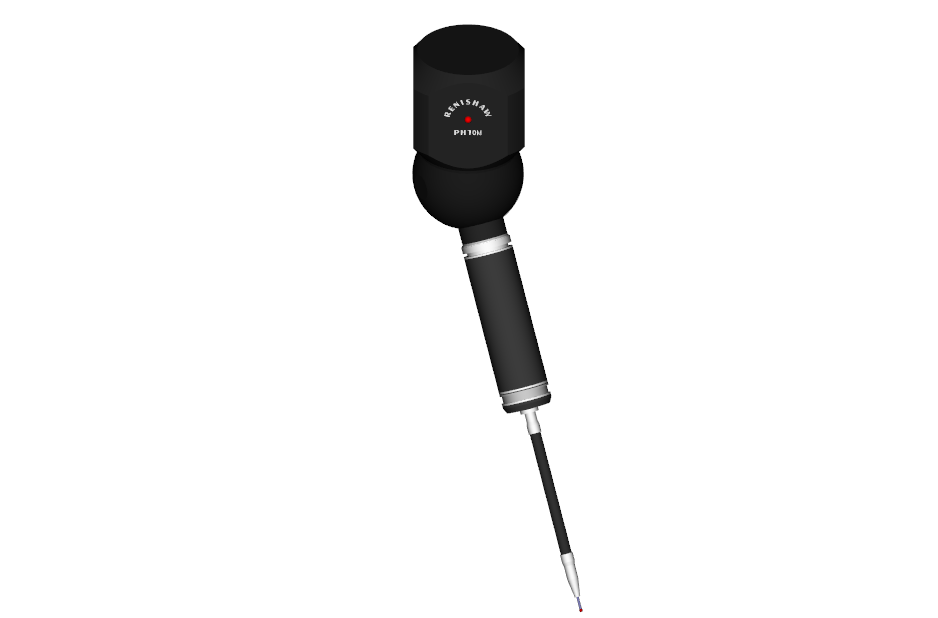
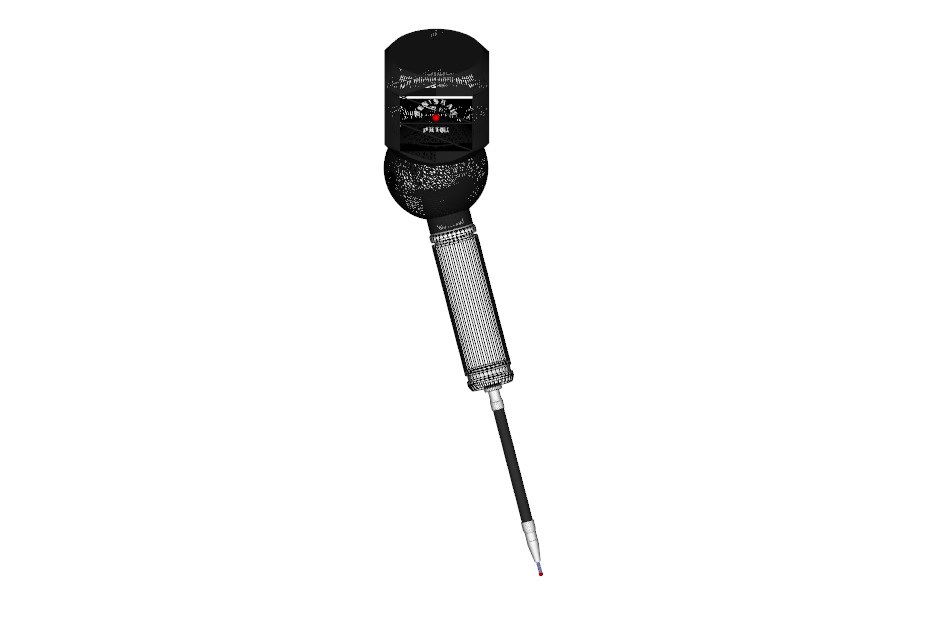
Rotation for screenshots

Changed region(s): [[0.4019, 0.0307, 0.6183, 0.9838]]

diff --git a/ViewCapture.cpp b/ViewCapture.cpp
@@ -8,13 +8,13 @@ ViewCapture::ViewCapture(const vtkSmartPointer<vtkRenderer>& target)
     _target = target;
 }
 
-std::string ViewCapture::TakeScreenshot(const vtkActorCollection* sceneObjects, const Size& size, const std::string& outputPath) const
+std::string ViewCapture::TakeScreenshot(const vtkActorCollection* sceneObjects, const Size& size, const std::string& outputPath, bool drawFrame) const
 {
     const vtkNew<vtkRenderer> renderer {};
     const vtkNew<vtkRenderWindow> renderWindow {};
 
     AddActorsToRenderer(renderer, const_cast<vtkActorCollection*>(sceneObjects));
-
+    SetActorsToWireframeDisplay(renderer);
     renderer->SetBackground(1, 1, 1);
 
     renderWindow->AddRenderer(renderer);
@@ -31,7 +31,10 @@ std::string ViewCapture::TakeScreenshot(const vtkActorCollection* sceneObjects, 
     if (_rawSettings)
         _rawSettings->ApplyToCamera(camera);
 
-    renderer->ResetCameraClippingRange();
+    /*camera->Azimuth(180);
+    camera->Elevation(30);*/
+
+    renderer->ResetCamera();
 
     renderWindow->Render();
 
@@ -46,15 +49,17 @@ std::string ViewCapture::TakeScreenshot(const vtkActorCollection* sceneObjects, 
     writer->SetInputConnection(wnd2Img->GetOutputPort());
     writer->Write();
 
+    SetActorsToSurfaceDisplay(renderer);
+
     return std::filesystem::absolute(std::filesystem::path(outputPath)).string();
 }
 
-std::string ViewCapture::TakeScreenshot(const Size& size, const std::string& path, PreShotAction prepareAction) const
+std::string ViewCapture::TakeScreenshot(const Size& size, const std::string& path, PreShotAction prepareAction, bool drawFrame) const
 {
     if (prepareAction)
         prepareAction(_target);
 
-    return TakeScreenshot(const_cast<vtkRenderer*>(_target)->GetActors(), size, path);
+    return TakeScreenshot(const_cast<vtkRenderer*>(_target)->GetActors(), size, path, drawFrame);
 }
 
 

diff --git a/vtkUtils.hpp b/vtkUtils.hpp
@@ -10,6 +10,9 @@ using vtkActorPointer = vtkSmartPointer<vtkActor>;
 using vtkTexturePointer = vtkSmartPointer<vtkTexture>;
 using vtkPolyDataMapperPointer = vtkSmartPointer<vtkPolyDataMapper>;
 
+using vtkActorTransformAction = std::function<vtkActor* (vtkActor*)>;
+using vtkActorTransformActionVoid = std::function<void(vtkActor*)>;
+
 template<typename ...Props>
 using is_vtk_prop_ptr = std::conjunction<std::is_convertible<Props, vtkProp*>...>;
 
@@ -27,7 +30,6 @@ inline void AddActorsToRenderer(const vtkRendererPointer& renderer, vtkActorColl
     actors->InitTraversal();
 
     auto actor = actors->GetNextActor();
-
     while(actor)
     {
         renderer->AddActor(actor);
@@ -53,6 +55,33 @@ Status AddActorsToRenderer(const vtkRendererPointer& renderer, const X<ActorPtr>
     }
 
     return Status::Success;
+}
+
+inline void TransformRendererActors(const vtkRendererPointer& renderer, const vtkActorTransformActionVoid& transform)
+{
+    auto actors = renderer->GetActors();
+
+    actors->InitTraversal();
+
+    auto actor = actors->GetNextActor();
+
+    while (actor)
+    {
+        transform(actor);
+        actor = actors->GetNextActor();
+    }
+}
+
+inline void SetActorsToWireframeDisplay(const vtkRendererPointer& renderer) {
+    TransformRendererActors(renderer, [](vtkActor* actor) {
+        actor->GetProperty()->SetRepresentationToWireframe();
+    });
+}
+
+inline void SetActorsToSurfaceDisplay(const vtkRendererPointer& renderer) {
+    TransformRendererActors(renderer, [](vtkActor* actor) {
+        actor->GetProperty()->SetRepresentationToSurface();
+    });
 }
 
 inline Result<vtkTexturePointer> LoadVtkTexture(const std::string& path) {

diff --git a/ParallelCameraSettings.cpp b/ParallelCameraSettings.cpp
@@ -116,13 +116,6 @@ ParallelCameraSettings& ParallelCameraSettings::operator=(ParallelCameraSettings
 
 void ParallelCameraSettings::ApplyToCamera(const vtkSmartPointer<vtkCamera>& camera) const noexcept
 {
-    camera->SetPosition(_position);
-    camera->SetFocalPoint(_focalPoint);
-    camera->SetViewUp(_viewUp);
-    camera->SetParallelProjection(1);
-    camera->SetParallelScale(_parallelScale);
-    camera->SetClippingRange(_clippingRange);
-
     camera->Azimuth(_azimuth);
     camera->Elevation(_elevation);
     camera->Roll(_roll);
@@ -149,19 +142,25 @@ ParallelCameraSettings& ParallelCameraSettings::Rotate(double yaw, double pitch,
     return *this;
 }
 
+// Copies Focal Points, ViewUp vector, parallel scale and clippingRange from given camera. Other parameters sets to 0
 ParallelCameraSettings ParallelCameraSettings::FromCamera(const vtkSmartPointer<vtkCamera>& camera)
 {
-    double position[3];
+    double position[3]{};
     double focalPoint[3];
     double viewUp[3];
     double clippingRange[2];
     const double parallelScale = camera->GetParallelScale();
 
-    camera->GetPosition(position);
+
     camera->GetFocalPoint(focalPoint);
     camera->GetViewUp(viewUp);
     camera->GetClippingRange(clippingRange);
 
-    return { position, focalPoint, viewUp, parallelScale, clippingRange, 0, 0, camera->GetRoll(), 0, 0};
+    return { position, focalPoint, viewUp, parallelScale, clippingRange, 0, 0, 0, 0, 0};
+}
+
+ParallelCameraSettings ParallelCameraSettings::Default()
+{
+    return ParallelCameraSettings::FromCamera(vtkSmartPointer<vtkCamera>::New());
 }
 

diff --git a/MachineHead.hpp b/MachineHead.hpp
@@ -84,17 +84,28 @@ public:
         return _rotations.at(address);
     }
 
+    std::unordered_map<RotAddress, double> Rotations()
+    {
+        return _rotations;
+    }
+
     void SetZero() noexcept 
     {
         RotatePart(RotAddress::A, 0);
         RotatePart(RotAddress::B, 0);
     }
 
+    void RotationsFromMap(std::unordered_map<RotAddress, double> angles)
+    {
+        RotatePart(RotAddress::A, angles[RotAddress::A]);
+        RotatePart(RotAddress::B, angles[RotAddress::B]);
+    }
+
 private:
     MachinePartCollection _parts;
     std::vector<MachineHeadAssembly> _topLevelParts;
 
-    std::map<RotAddress, double> _rotations = 
+    std::unordered_map<RotAddress, double> _rotations = 
     {
         {RotAddress::A, 0},
         {RotAddress::B, 0}

diff --git a/scenewidget.cpp b/scenewidget.cpp
@@ -82,15 +82,17 @@ std::string SceneWidget::demoScreenshot()
     cap.SetSpecialCameraConfigs(rawConfig);
     auto size = renderWindow()->GetSize();
 
-
     Size s{ size[0], size[1] };
 
+    const auto oldRots = _machineHead->Rotations();
+
     const auto path = cap.TakeScreenshot(s, "AwesomeScreenshot.png", [this](const vtkRenderer* r) {
+        _machineHead->SetZero();
         _machineHead->RotatePart(RotAddress::A, 30);
         _machineHead->RotatePart(RotAddress::B, 30);
-    });
+    }, true);
 
-    _machineHead->SetZero();
+    _machineHead->RotationsFromMap(oldRots);
 
     return path;
 }

diff --git a/ViewCapture.h b/ViewCapture.h
@@ -17,9 +17,9 @@ public:
     ViewCapture(const vtkSmartPointer<vtkRenderer>& target);
 
     //
-    std::string TakeScreenshot(const vtkActorCollection*, const Size&, const std::string&) const;
+    std::string TakeScreenshot(const vtkActorCollection*, const Size&, const std::string&, bool drawFrame = false) const;
 
-    std::string TakeScreenshot(const Size&, const std::string&, PreShotAction = nullptr) const;
+    std::string TakeScreenshot(const Size&, const std::string&, PreShotAction = nullptr, bool drawFrame = false) const;
 
 
     void SetBaseCamera(const vtkSmartPointer<vtkCamera>&);

diff --git a/ParallelCameraSettings.h b/ParallelCameraSettings.h
@@ -22,6 +22,7 @@ public:
     ParallelCameraSettings& Rotate(double yaw, double pitch, double roll);
 
     static ParallelCameraSettings FromCamera(const vtkSmartPointer<vtkCamera>& camera);
+    static ParallelCameraSettings Default();
 
 private:
     double* _position;
